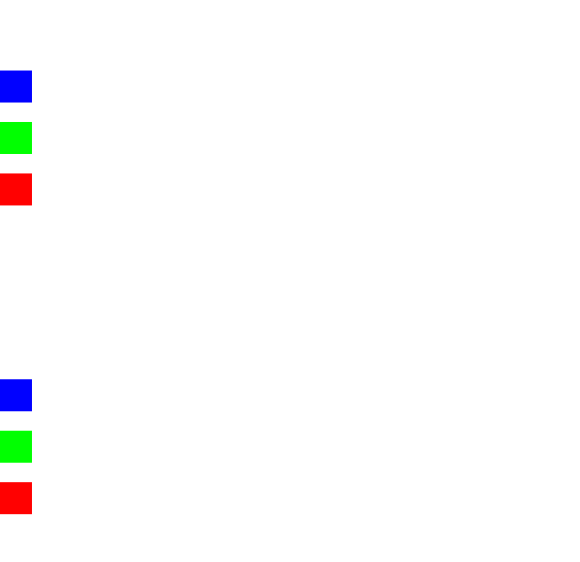
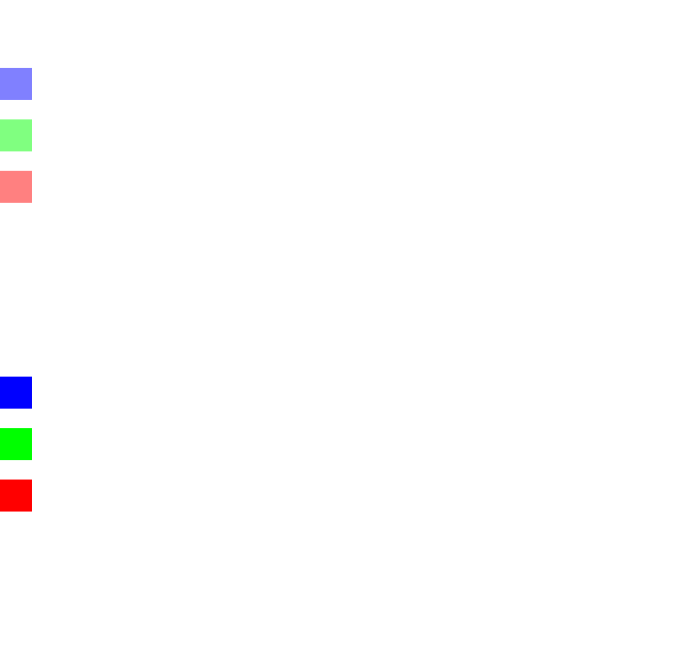
changed alpha shader bit

Changed region(s): [[0.0, 0.5445, 0.0621, 0.9377], [0.0, 0.0907, 0.0621, 0.3932]]

diff --git a/core/src/com/emergentorganization/cellrpg/tools/postprocessing/TronShader.java b/core/src/com/emergentorganization/cellrpg/tools/postprocessing/TronShader.java
@@ -13,12 +13,12 @@ import com.badlogic.gdx.graphics.glutils.ShaderProgram;
  * Created by BrianErikson on 9/3/15.
  */
 public class TronShader implements PostProcessor {
-    public static final String horizontalVertexShader = Gdx.files.internal("shaders/Tron_Vert_Horizontal.glsl").readString();
-    public static final String verticalVertexShader = Gdx.files.internal("shaders/Tron_Vert_Vertical.glsl").readString();
-    public static final String horizontalFragShader = Gdx.files.internal("shaders/Tron_Frag_Horizontal.glsl").readString();
-    public static final String verticalFragShader = Gdx.files.internal("shaders/Tron_Frag_Vertical.glsl").readString();
-    public static final String alphaMaskVertexShader = Gdx.files.internal("shaders/Tron_Vert_AlphaMask.glsl").readString();
-    public static final String alphaMaskFragShader = Gdx.files.internal("shaders/Tron_Frag_AlphaMask.glsl").readString();
+    public static final String horizontalVertexShader = Gdx.files.internal("shaders/tron/Tron_Vert_Horizontal.glsl").readString();
+    public static final String verticalVertexShader = Gdx.files.internal("shaders/tron/Tron_Vert_Vertical.glsl").readString();
+    public static final String horizontalFragShader = Gdx.files.internal("shaders/tron/Tron_Frag_Horizontal.glsl").readString();
+    public static final String verticalFragShader = Gdx.files.internal("shaders/tron/Tron_Frag_Vertical.glsl").readString();
+    public static final String alphaMaskVertexShader = Gdx.files.internal("shaders/tron/Tron_Vert_AlphaMask.glsl").readString();
+    public static final String alphaMaskFragShader = Gdx.files.internal("shaders/tron/Tron_Frag_AlphaMask.glsl").readString();
     private final TextureRegion maskRegion;
     private ShaderProgram alphaMaskProgram = new ShaderProgram(alphaMaskVertexShader, alphaMaskFragShader);
     private ShaderProgram horizontalBlurProgram = new ShaderProgram(horizontalVertexShader, horizontalFragShader);

diff --git a/core/src/com/emergentorganization/cellrpg/scenes/RenderTest.java b/core/src/com/emergentorganization/cellrpg/scenes/RenderTest.java
@@ -18,7 +18,7 @@ public class RenderTest extends Scene {
         super.create();
 
         try {
-            addPostProcessor(new TronShader(5));
+            addPostProcessor(new TronShader(1));
         } catch (ShaderException e) {
             e.printStackTrace();
         }
